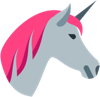
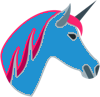
two unicorns

diff --git a/js/ride.js b/js/ride.js
@@ -216,10 +216,19 @@ WildRydes.map = WildRydes.map || {};
 
         animate(origin, dest, callback);
     }
+
+    let count = 0;
     function animate(origin, dest, callback) {          //  TODO moved
         let tick = 0;
         let id = null;
         const unicorn = WildRydes.unicorn;
+
+        count++;
+        unicorn.setIcon({
+            iconUrl: (count % 2 === 0) ? 'images/unicorn-icon.png' : 'images/unicorn-icon2.png',
+            iconSize: [38, 95],
+            iconAnchor: [22, 94],
+        })
 
         let latlng = unicorn.getLatLng();
         let latInc = (dest.latitude - latlng.lat) / 100;
@@ -238,8 +247,6 @@ WildRydes.map = WildRydes.map || {};
                 tick++;
                 latlng = {lat: latlng.lat +  latInc, lng: latlng.lng +  lngInc};
                 unicorn.setLatLng(latlng);
-
-                WildRydes.map.flyTo(latlng, 3);
             }
         }
     }
